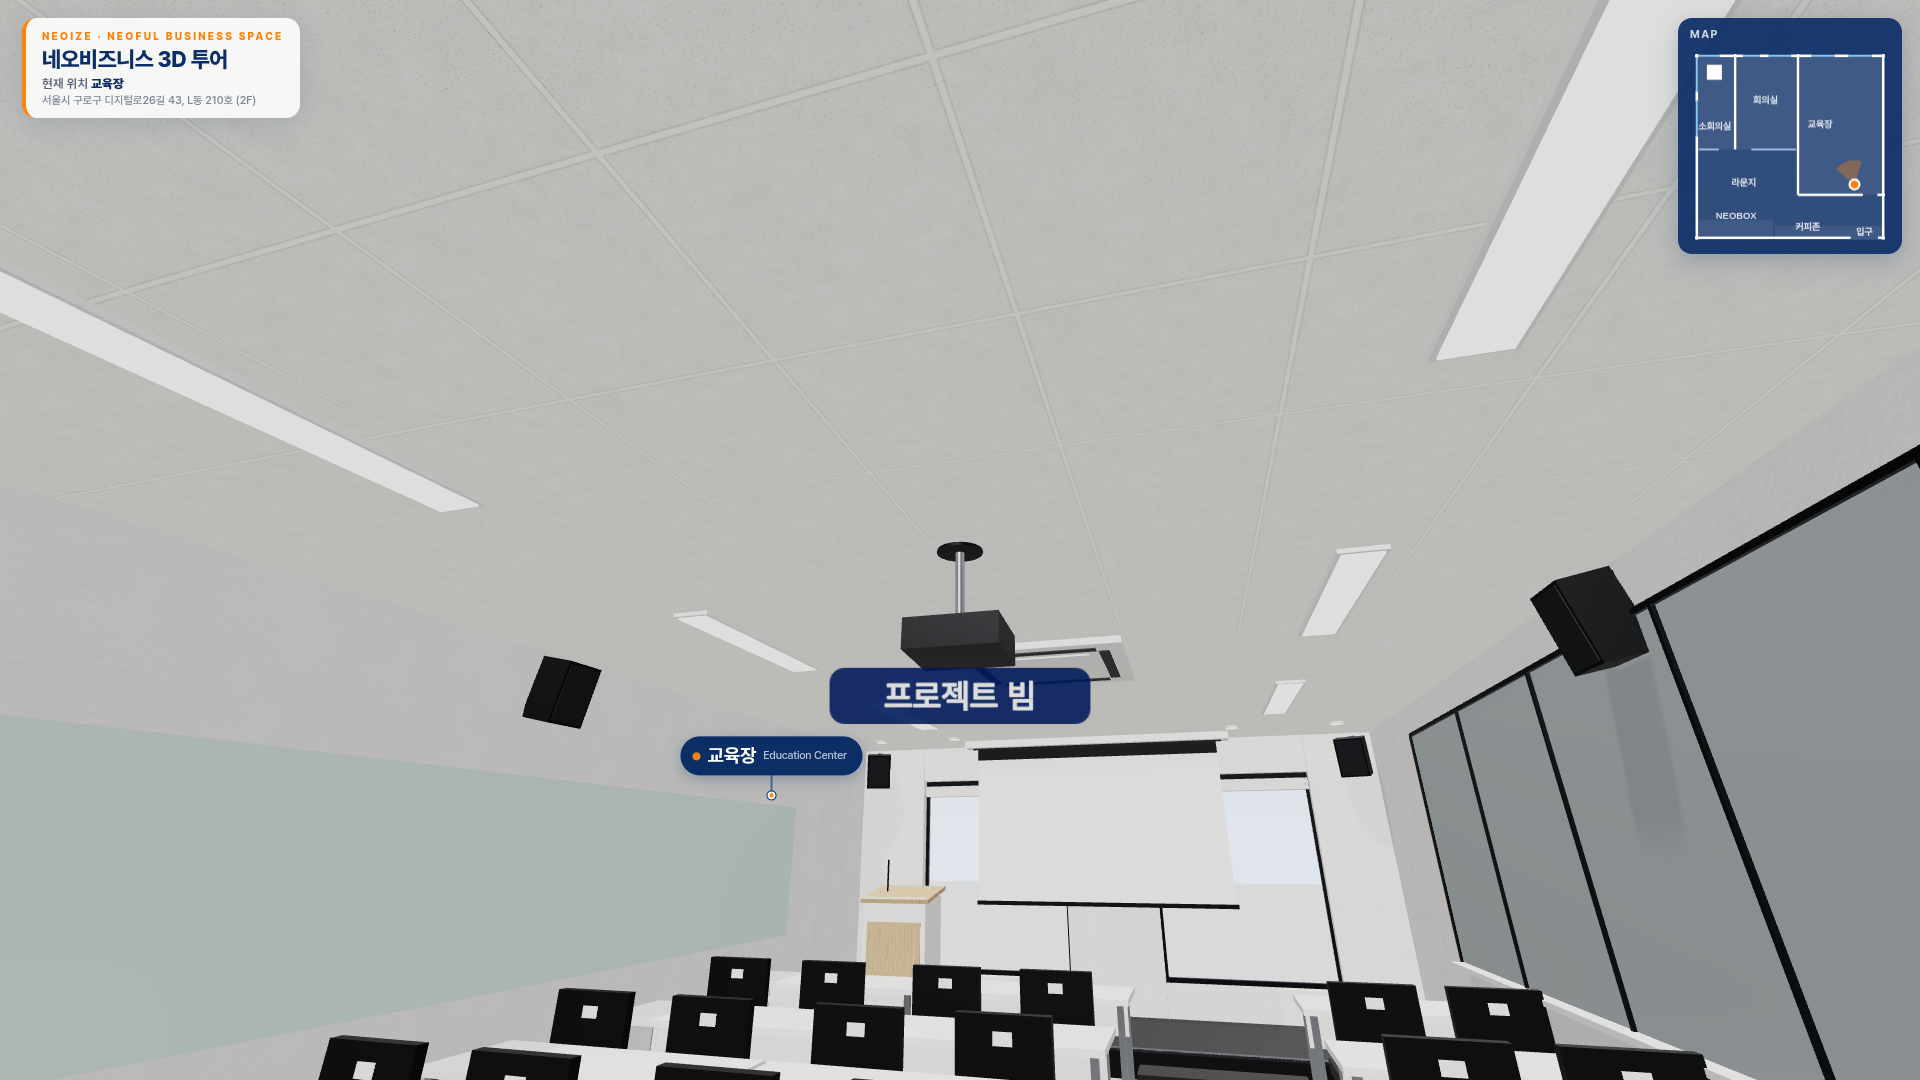
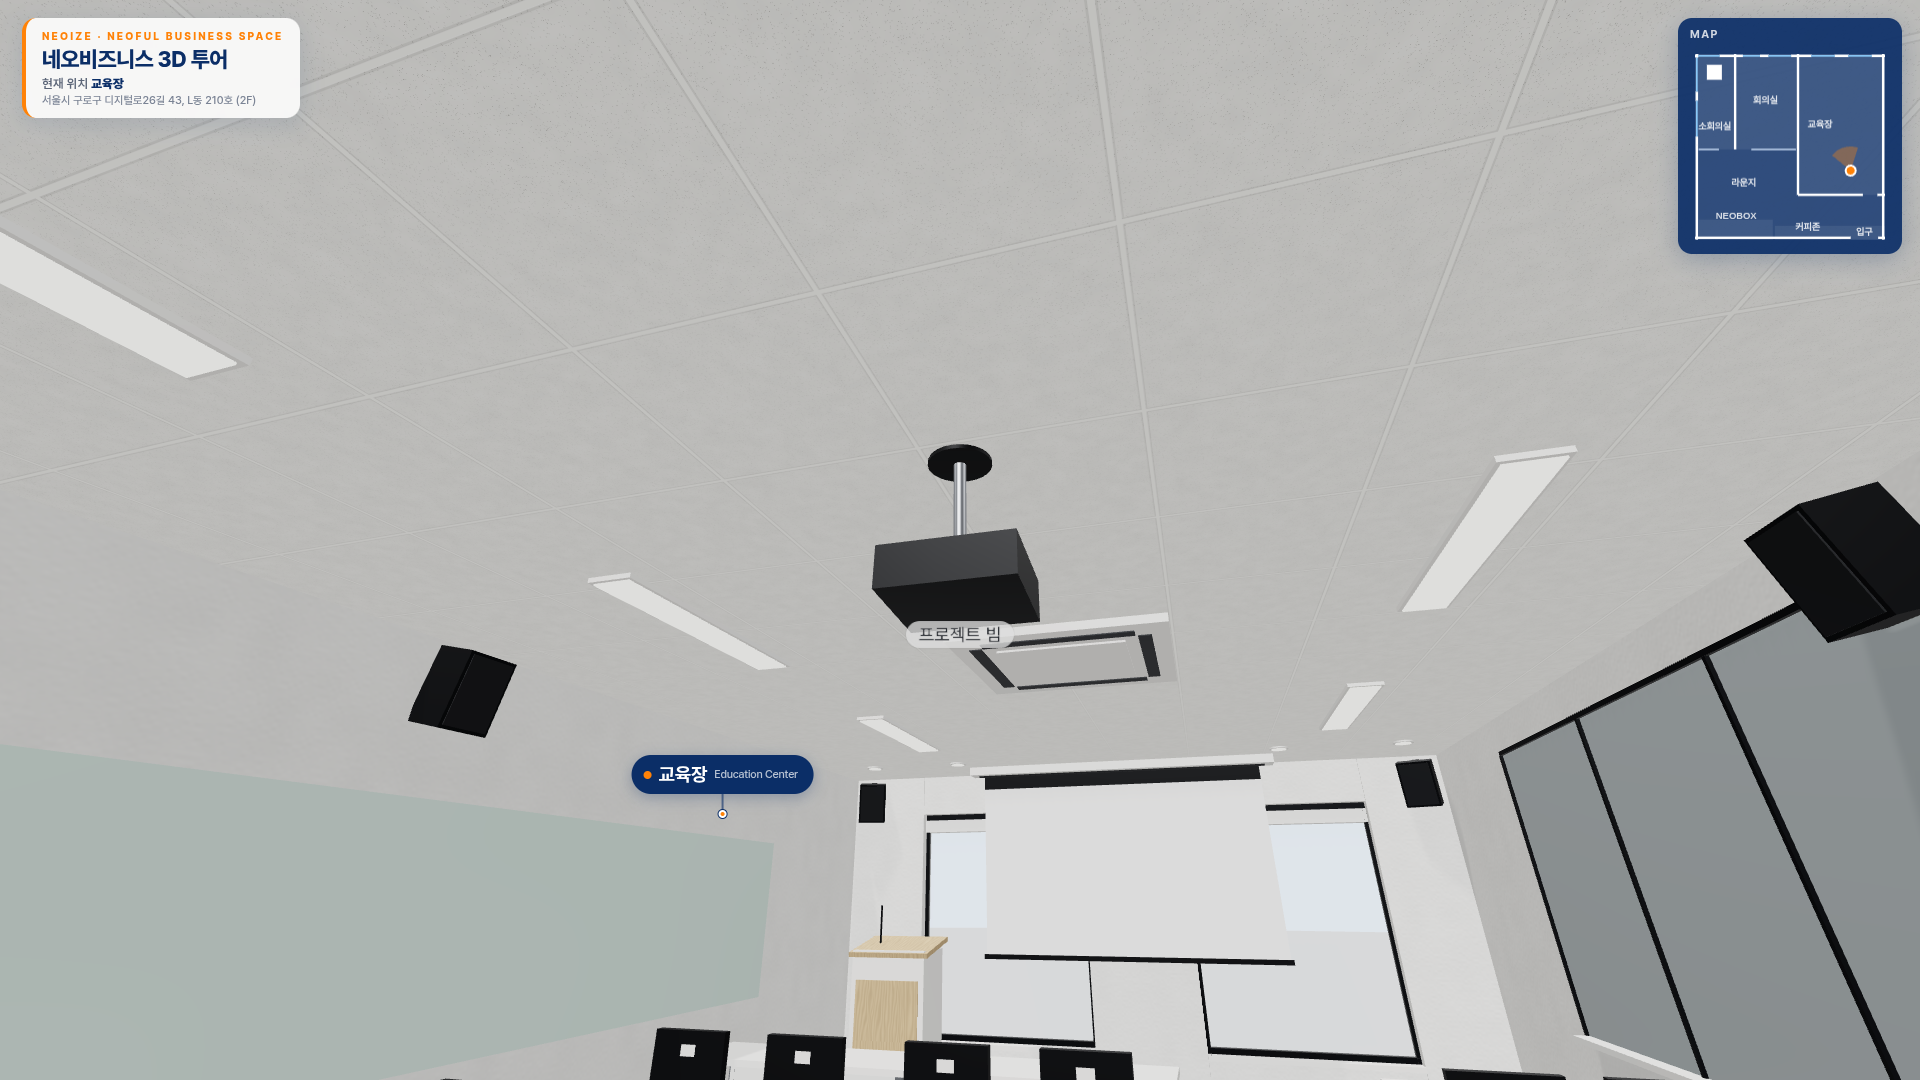
프로젝트 빔 라벨 작고 연하게

diff --git a/app.js b/app.js
@@ -5,7 +5,7 @@ import { OrbitControls } from 'three/addons/OrbitControls.js';
 import { CSS2DRenderer, CSS2DObject } from 'three/addons/CSS2DRenderer.js';
 import { RoomEnvironment } from 'three/addons/RoomEnvironment.js';
 import { mergeGeometries } from 'three/addons/BufferGeometryUtils.js';
-import { makeTextures, textTexture } from './textures.js?v=11190990';
+import { makeTextures, textTexture } from './textures.js?v=11191010';
 
 const L = window.LAYOUT, B = L.building, H = B.ceiling, EYE = B.eye || 1.6, W = B.width, D = B.depth;
 const TW = Object.assign({ exterior: 0.24, interior: 0.14, thick: 0.3 }, B.wall || {});
@@ -297,11 +297,11 @@ for (const p of (L.ceiling?.projectors || [])) {      // 천장형 빔 프로젝
   box(0.2, 0.004, 0.03, M.black, -0.06, by + 0.12, 0.13, pg);                       // 통풍구
   if (p.label !== false) {
     const c = document.createElement('canvas'); c.width = 320; c.height = 72; const cx = c.getContext('2d');
-    cx.fillStyle = 'rgba(11,46,103,0.88)'; cx.beginPath(); cx.roundRect(2, 2, 316, 68, 18); cx.fill();
-    cx.fillStyle = '#fff'; cx.font = '700 40px Pretendard, sans-serif'; cx.textAlign = 'center'; cx.textBaseline = 'middle'; cx.fillText(p.label || '프로젝트 빔', 160, 38);
+    cx.fillStyle = 'rgba(255,255,255,0.78)'; cx.beginPath(); cx.roundRect(40, 6, 240, 60, 30); cx.fill();   /* 작은 연한 라벨 */
+    cx.fillStyle = '#3a3d42'; cx.font = '600 40px Pretendard, sans-serif'; cx.textAlign = 'center'; cx.textBaseline = 'middle'; cx.fillText(p.label || '프로젝트 빔', 160, 38);
     const t = new THREE.CanvasTexture(c); t.colorSpace = THREE.SRGBColorSpace;
-    const sp = new THREE.Sprite(new THREE.SpriteMaterial({ map: t, depthWrite: false })); const th = p.labelSize || 0.12;
-    sp.scale.set(th * 320 / 40, th * 72 / 40, 1);   /* 글자 높이 ≈ th(m) */ sp.position.set(p.x, by - 0.14, p.z); sp.renderOrder = 5; scene.add(sp); projLabels.push(sp);
+    const sp = new THREE.Sprite(new THREE.SpriteMaterial({ map: t, depthWrite: false })); const th = p.labelSize || 0.045;
+    sp.scale.set(th * 320 / 40, th * 72 / 40, 1);   /* 글자 높이 ≈ th(m) */ sp.position.set(p.x, by - 0.075, p.z); sp.renderOrder = 5; scene.add(sp); projLabels.push(sp);
   }
 }
 if (!M.acVent) { M.acVent = std({ color: 0x3a3d42, roughness: 0.6 }); M.acVent.userData.noShadow = true; }

diff --git a/index.html b/index.html
@@ -131,8 +131,8 @@ body.shot #doorPrompt{font-size:22px;padding:12px 22px 12px 14px}body.shot #door
   </div>
 </aside>
 <!-- 공간 설정: 치수·가구 배치는 layout.js 에서 수정 -->
-<script src="layout.js?v=11190990"></script>
+<script src="layout.js?v=11191010"></script>
 <script type="importmap">{"imports":{"three":"./lib/three.module.min.js","three/addons/":"./lib/addons/"}}</script>
-<script type="module" src="app.js?v=11190990"></script>
+<script type="module" src="app.js?v=11191010"></script>
 </body>
 </html>
